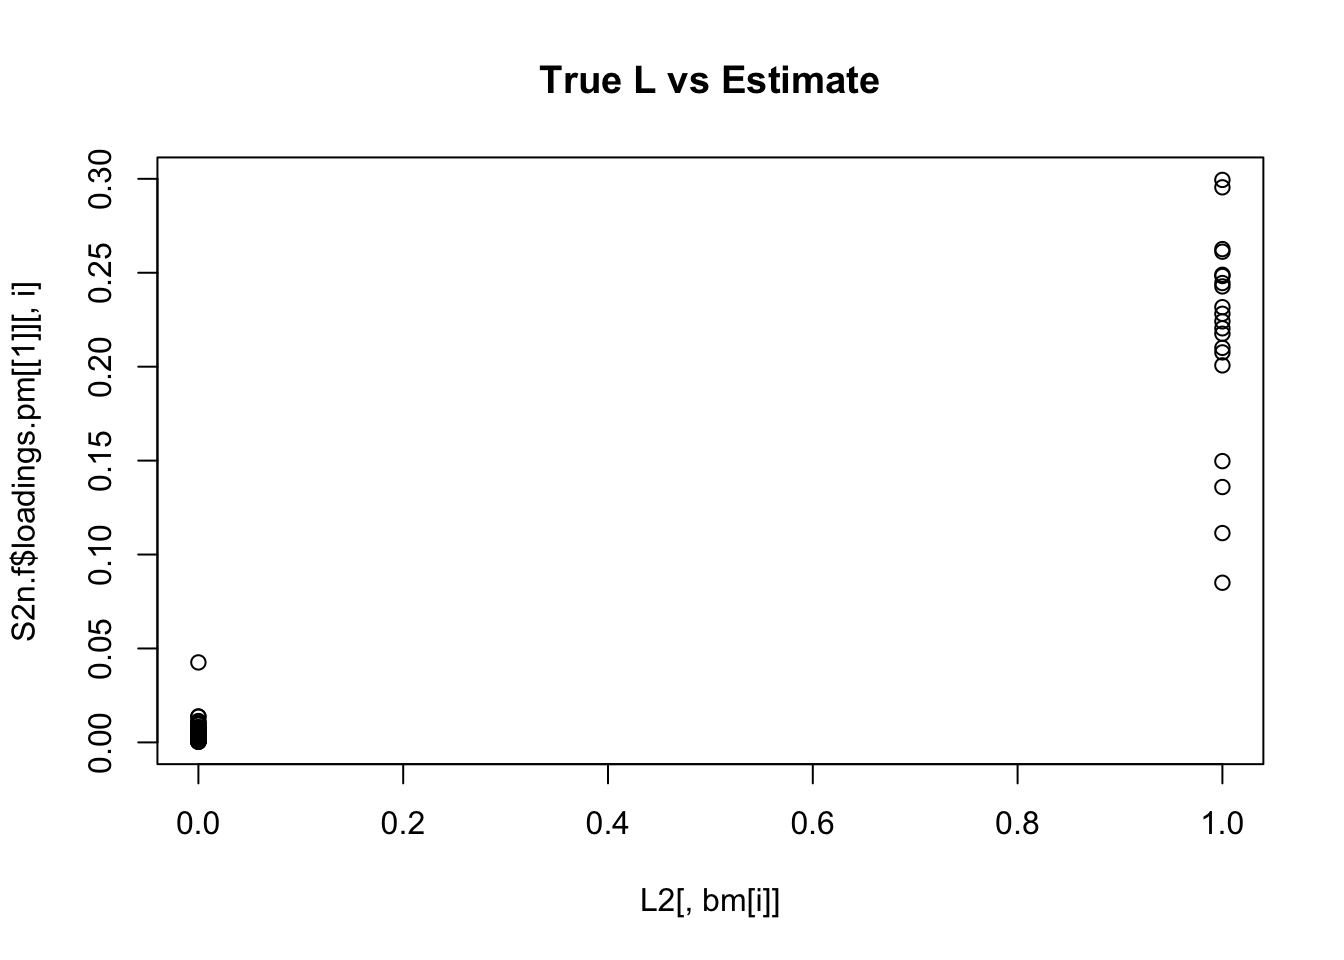
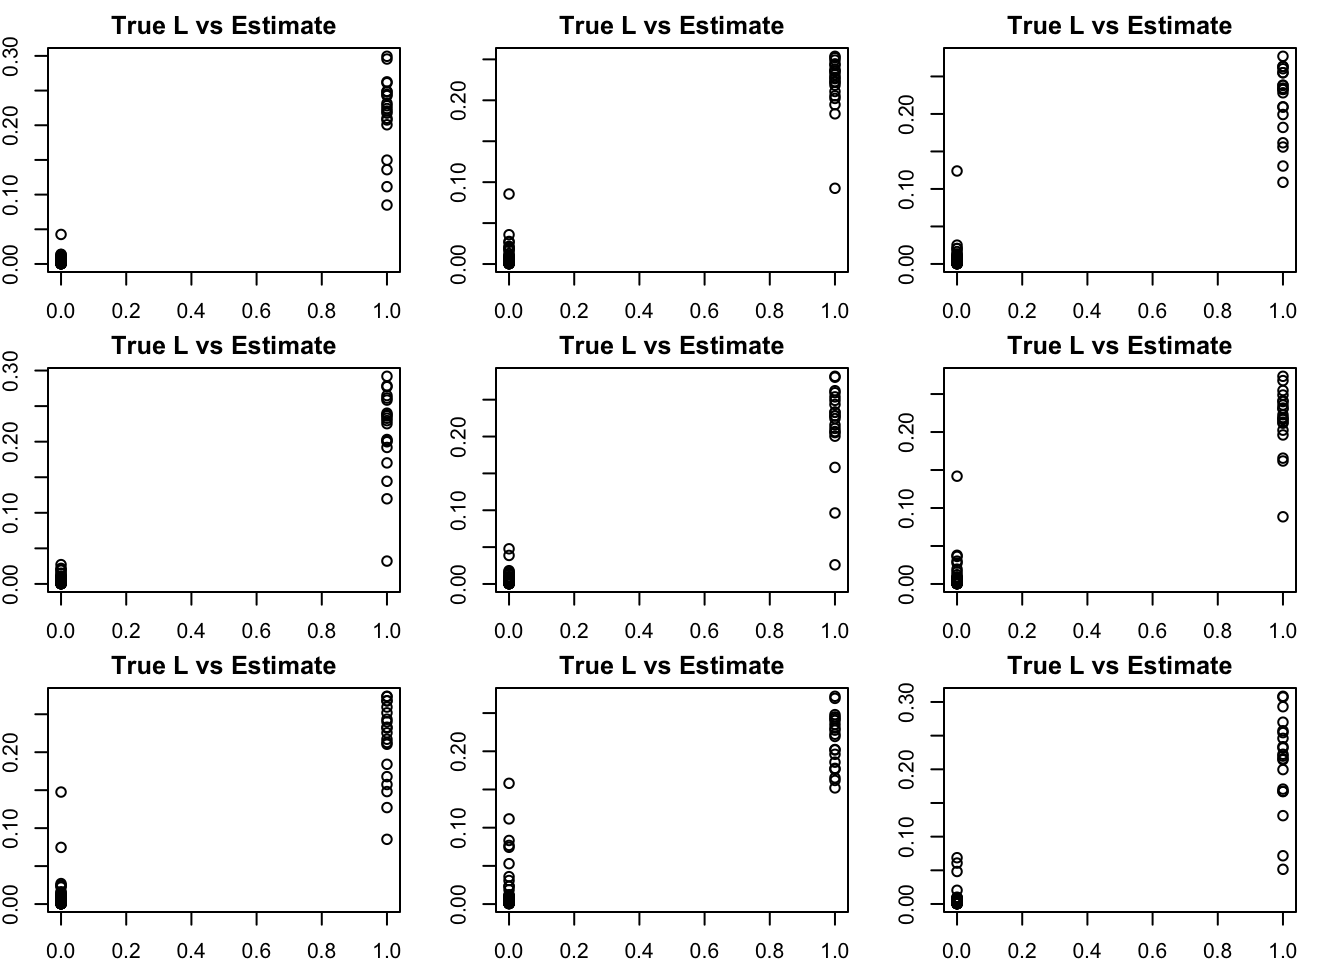
Build site.

diff --git a/docs/nmf_simple_examples.html b/docs/nmf_simple_examples.html
@@ -492,16 +492,16 @@ This reproducible <a href="http://rmarkdown.rstudio.com">R Markdown</a> analysis
 <div class="panel panel-default">
 <div class="panel-heading">
 <p class="panel-title">
-<a data-toggle="collapse" data-parent="#workflowr-checks" href="#strongRepositoryversionstrongahrefhttpsgithubcomstephens999misctree051454d4f076702b38aadf1995173b1f168bcb8etargetblank051454da"> <span class="glyphicon glyphicon-ok text-success" aria-hidden="true"></span> <strong>Repository version:</strong> <a href="https://github.com/stephens999/misc/tree/051454d4f076702b38aadf1995173b1f168bcb8e" target="_blank">051454d</a> </a>
+<a data-toggle="collapse" data-parent="#workflowr-checks" href="#strongRepositoryversionstrongahrefhttpsgithubcomstephens999misctree3304a12022eb0e8e5d96296e67bb712edef11327targetblank3304a12a"> <span class="glyphicon glyphicon-ok text-success" aria-hidden="true"></span> <strong>Repository version:</strong> <a href="https://github.com/stephens999/misc/tree/3304a12022eb0e8e5d96296e67bb712edef11327" target="_blank">3304a12</a> </a>
 </p>
 </div>
[2 lines of base64/hex data omitted]
 <div class="panel-body">
 <p>
 Great! You are using Git for version control. Tracking code development and connecting the code version to the results is critical for reproducibility.
 </p>
 <p>
-The results in this page were generated with repository version <a href="https://github.com/stephens999/misc/tree/051454d4f076702b38aadf1995173b1f168bcb8e" target="_blank">051454d</a>. See the <em>Past versions</em> tab to see a history of the changes made to the R Markdown and HTML files.
+The results in this page were generated with repository version <a href="https://github.com/stephens999/misc/tree/3304a12022eb0e8e5d96296e67bb712edef11327" target="_blank">3304a12</a>. See the <em>Past versions</em> tab to see a history of the changes made to the R Markdown and HTML files.
 </p>
 <p>
 Note that you need to be careful to ensure that all relevant files for the analysis have been committed to Git prior to generating the results (you can use <code>wflow_publish</code> or <code>wflow_git_commit</code>). workflowr only checks the R Markdown file, but you know if there are other scripts or data files that it depends on. Below is the status of the Git repository when the results were generated:
@@ -691,6 +691,40 @@ Message
 </tr>
 </thead>
 <tbody>
+<tr>
+<td>
+Rmd
+</td>
+<td>
+<a href="https://github.com/stephens999/misc/blob/3304a12022eb0e8e5d96296e67bb712edef11327/analysis/nmf_simple_examples.Rmd" target="_blank">3304a12</a>
+</td>
+<td>
+Matthew Stephens
+</td>
+<td>
+2020-10-13
+</td>
+<td>
+workflowr::wflow_publish(“nmf_simple_examples.Rmd”)
+</td>
+</tr>
+<tr>
+<td>
+html
+</td>
+<td>
+<a href="https://rawcdn.githack.com/stephens999/misc/40bc193e8472e89a8f8de6a98f7ca729dcc11463/docs/nmf_simple_examples.html" target="_blank">40bc193</a>
+</td>
+<td>
+Matthew Stephens
+</td>
+<td>
+2020-10-13
+</td>
+<td>
+Build site.
+</td>
+</tr>
 <tr>
 <td>
 Rmd
@@ -1152,7 +1186,8 @@ Matthew Stephens
   Difference between iterations is within 1.0e-03...
 Wrapping up...
 Done.</code></pre>
-<pre class="r"><code>for(i in 1:K){
+<pre class="r"><code>par(mfcol=c(3,3),mai=rep(0.25,4))
+for(i in 1:K){
   plot(L2[,bm[i]],S2n.f$loadings.pm[[1]][,i], main=&quot;True L vs Estimate&quot;)
 }</code></pre>
 <p><img src="figure/nmf_simple_examples.Rmd/unnamed-chunk-9-1.png" width="672" style="display: block; margin: auto;" /></p>
@@ -1180,6 +1215,17 @@ Date
 <tbody>
 <tr>
 <td>
+<a href="https://github.com/stephens999/misc/blob/40bc193e8472e89a8f8de6a98f7ca729dcc11463/docs/figure/nmf_simple_examples.Rmd/unnamed-chunk-9-1.png" target="_blank">40bc193</a>
+</td>
+<td>
+Matthew Stephens
+</td>
+<td>
+2020-10-13
+</td>
+</tr>
+<tr>
+<td>
 <a href="https://github.com/stephens999/misc/blob/ef937bb177b0e5e326d327a56f75e048446cce71/docs/figure/nmf_simple_examples.Rmd/unnamed-chunk-9-1.png" target="_blank">ef937bb</a>
 </td>
 <td>
@@ -1193,7 +1239,6 @@ Matthew Stephens
 </table>
 </div>
 </div>
-<p><img src="figure/nmf_simple_examples.Rmd/unnamed-chunk-9-2.png" width="672" style="display: block; margin: auto;" /><img src="figure/nmf_simple_examples.Rmd/unnamed-chunk-9-3.png" width="672" style="display: block; margin: auto;" /><img src="figure/nmf_simple_examples.Rmd/unnamed-chunk-9-4.png" width="672" style="display: block; margin: auto;" /><img src="figure/nmf_simple_examples.Rmd/unnamed-chunk-9-5.png" width="672" style="display: block; margin: auto;" /><img src="figure/nmf_simple_examples.Rmd/unnamed-chunk-9-6.png" width="672" style="display: block; margin: auto;" /><img src="figure/nmf_simple_examples.Rmd/unnamed-chunk-9-7.png" width="672" style="display: block; margin: auto;" /><img src="figure/nmf_simple_examples.Rmd/unnamed-chunk-9-8.png" width="672" style="display: block; margin: auto;" /><img src="figure/nmf_simple_examples.Rmd/unnamed-chunk-9-9.png" width="672" style="display: block; margin: auto;" /></p>
 <p>Although the plots do not look so different, the EB shrinkage ddoes consistently improves the correlations between the true values and the estimates:</p>
 <pre class="r"><code>cors = matrix(nrow=K, ncol=2)
 colnames(cors) = c(&quot;flash&quot;,&quot;nnmf&quot;)
@@ -1226,6 +1271,43 @@ L3[76:100,6] = 1
 S3 = L3 %*% t(L3) +rnorm(100*100,0,0.01)
 image(S3)</code></pre>
 <p><img src="figure/nmf_simple_examples.Rmd/unnamed-chunk-11-1.png" width="672" style="display: block; margin: auto;" /></p>
+<p>
+<button type="button" class="btn btn-default btn-xs btn-workflowr btn-workflowr-fig" data-toggle="collapse" data-target="#fig-unnamed-chunk-11-1">
+Past versions of unnamed-chunk-11-1.png
+</button>
+</p>
+<div id="fig-unnamed-chunk-11-1" class="collapse">
+<div class="table-responsive">
+<table class="table table-condensed table-hover">
+<thead>
+<tr>
+<th>
+Version
+</th>
+<th>
+Author
+</th>
+<th>
+Date
+</th>
+</tr>
+</thead>
+<tbody>
+<tr>
+<td>
+<a href="https://github.com/stephens999/misc/blob/40bc193e8472e89a8f8de6a98f7ca729dcc11463/docs/figure/nmf_simple_examples.Rmd/unnamed-chunk-11-1.png" target="_blank">40bc193</a>
+</td>
+<td>
+Matthew Stephens
+</td>
+<td>
+2020-10-13
+</td>
+</tr>
+</tbody>
+</table>
+</div>
+</div>
 <p>The results confirm that finding the representation that we want (in which each factor represents a branch) is not achieved by off-the-shelf methods. This is essentially because many factors (in the branch represenation) are linearly dependent with one another.</p>
 <p>Here, many of the estimated factors from NMF correlate most with the top split (factor 1 or 2) and have partial memberships that capture some of the lower splits.</p>
 <pre class="r"><code>S3.nnmf = nnmf(S3,k=7)
@@ -1235,6 +1317,43 @@ for(i in 1:7){
   plot(L3[,bm[i]],S3.nnmf$W[,i], main=paste0(&quot;True L (&quot;,bm[i], &quot;) vs Estimate&quot;))
 }</code></pre>
 <p><img src="figure/nmf_simple_examples.Rmd/unnamed-chunk-12-1.png" width="672" style="display: block; margin: auto;" /></p>
+<p>
+<button type="button" class="btn btn-default btn-xs btn-workflowr btn-workflowr-fig" data-toggle="collapse" data-target="#fig-unnamed-chunk-12-1">
+Past versions of unnamed-chunk-12-1.png
+</button>
+</p>
+<div id="fig-unnamed-chunk-12-1" class="collapse">
+<div class="table-responsive">
+<table class="table table-condensed table-hover">
+<thead>
+<tr>
+<th>
+Version
+</th>
+<th>
+Author
+</th>
+<th>
+Date
+</th>
+</tr>
+</thead>
+<tbody>
+<tr>
+<td>
+<a href="https://github.com/stephens999/misc/blob/40bc193e8472e89a8f8de6a98f7ca729dcc11463/docs/figure/nmf_simple_examples.Rmd/unnamed-chunk-12-1.png" target="_blank">40bc193</a>
+</td>
+<td>
+Matthew Stephens
+</td>
+<td>
+2020-10-13
+</td>
+</tr>
+</tbody>
+</table>
+</div>
+</div>
 <br>
 <p>
 <button type="button" class="btn btn-default btn-workflowr btn-workflowr-sessioninfo" data-toggle="collapse" data-target="#workflowr-sessioninfo" style="display: block;">
